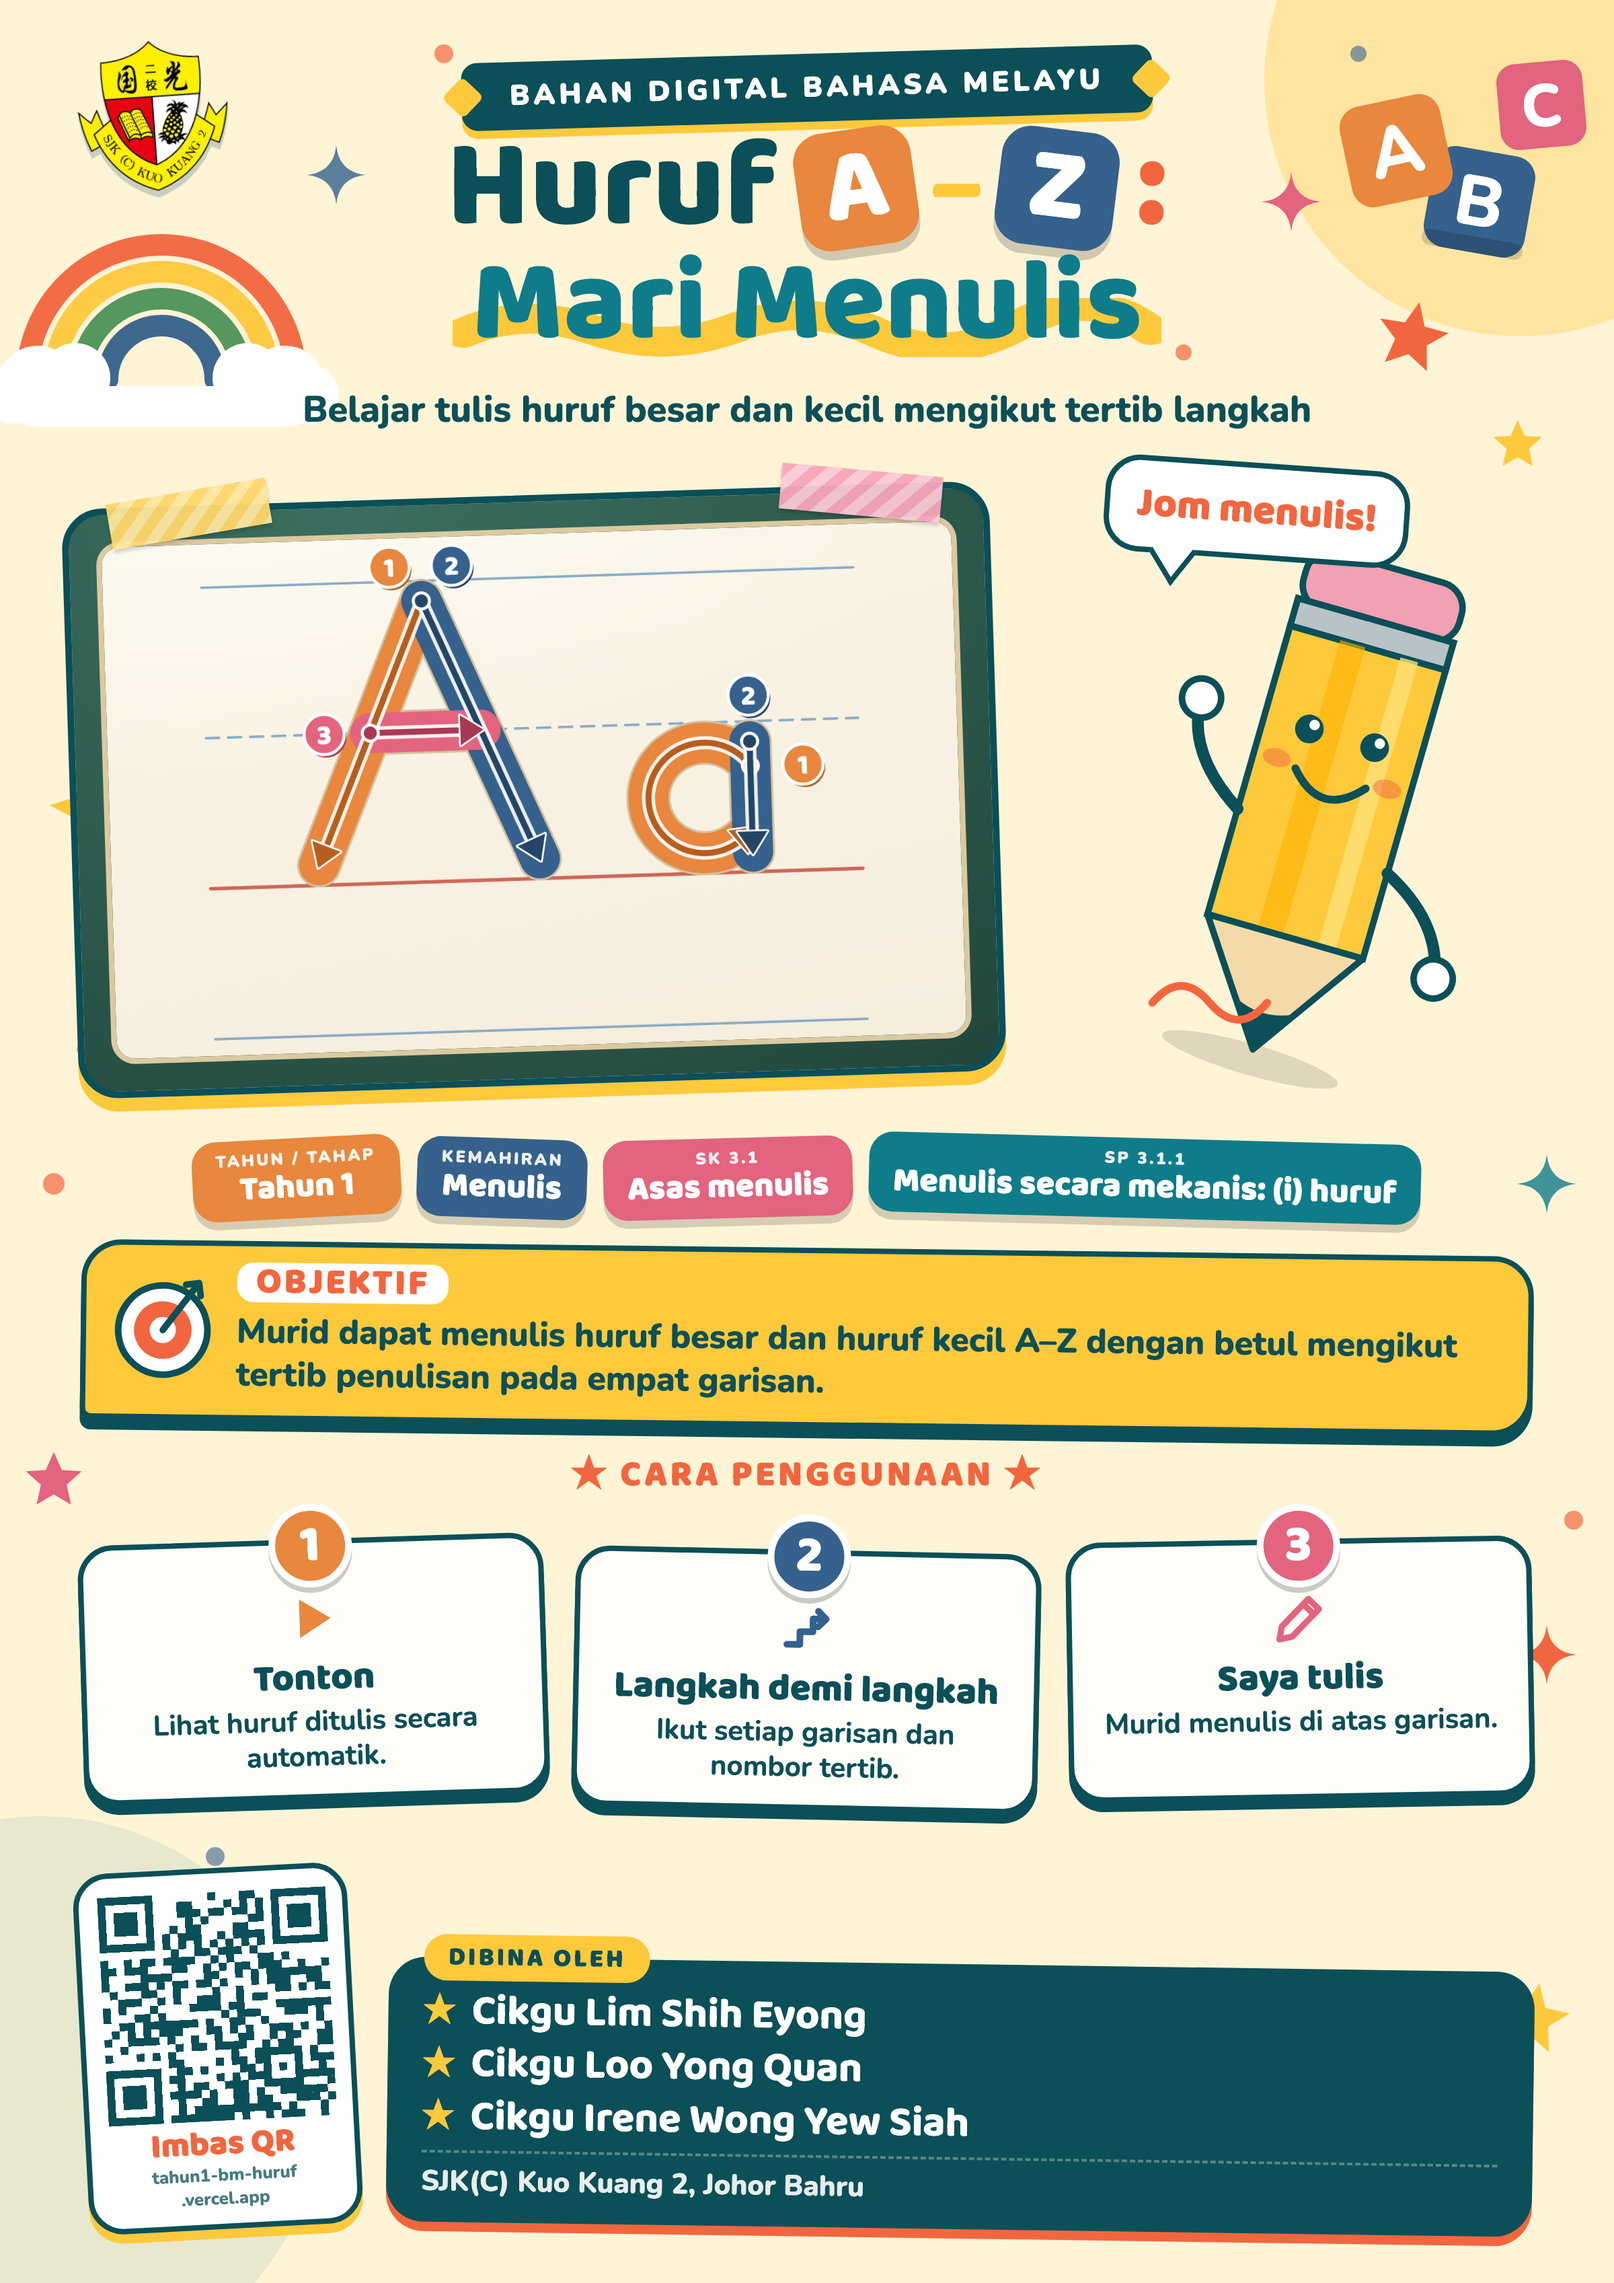
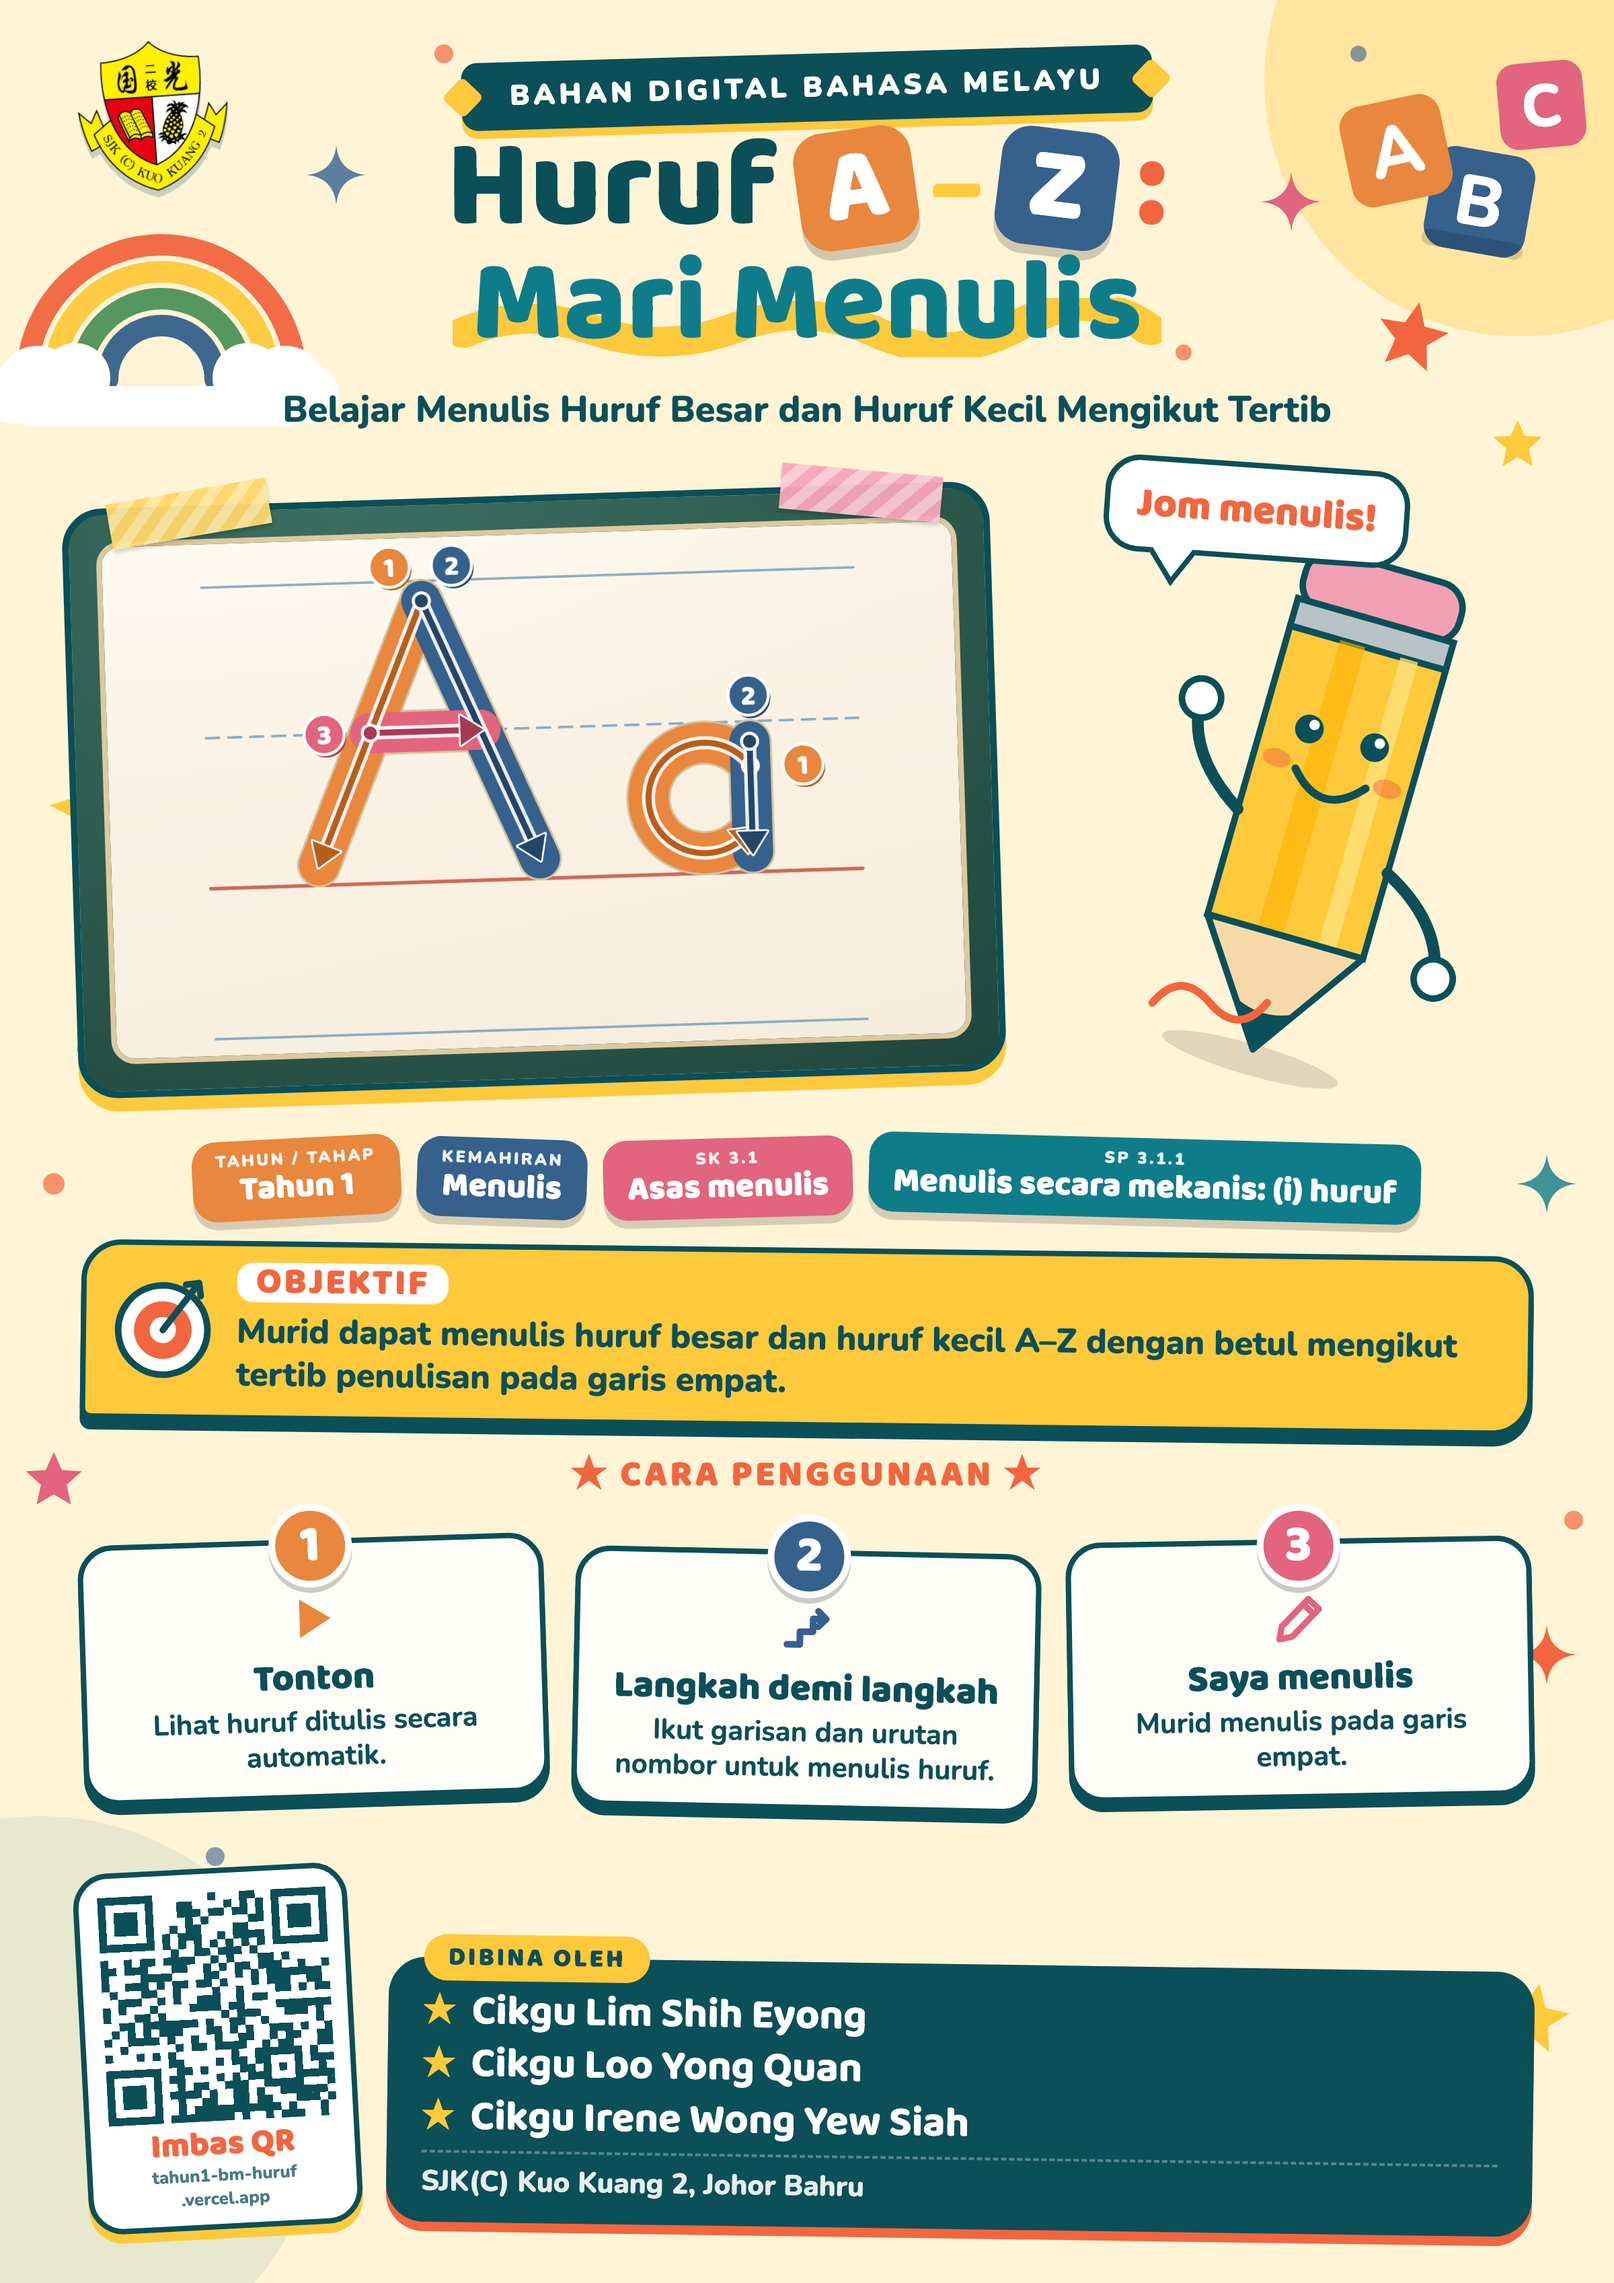
修正海报四处马来文用词
- 副标语改为 Belajar Menulis Huruf Besar dan Huruf Kecil Mengikut Tertib
- 「Langkah demi langkah」说明、第 3 步「Saya menulis」、Objektif 结尾改为「garis empat」，照老师原文
- 重生 poster-v2.png；更新 handoff

diff --git a/docs/poster-v2/poster.tpl.html b/docs/poster-v2/poster.tpl.html
@@ -110,7 +110,7 @@ h1,h2,.fun{font-family:'Baloo 2','Nunito',sans-serif}
       <div class="t2">Mari Menulis
         <svg viewBox="0 0 400 44" preserveAspectRatio="none"><path d="M6 26Q40 6 80 24T160 22T240 26T320 20T394 24" fill="none" stroke="#FFC93C" stroke-width="22" stroke-linecap="round"/></svg></div>
     </div>
-    <div class="sub">Belajar tulis huruf besar dan kecil mengikut tertib langkah</div>
+    <div class="sub">Belajar Menulis Huruf Besar dan Huruf Kecil Mengikut Tertib</div>
   </div>
 
   <div class="heroRow">
@@ -150,7 +150,7 @@ h1,h2,.fun{font-family:'Baloo 2','Nunito',sans-serif}
   <div class="obj">
     <svg class="ic" viewBox="0 0 80 80"><circle cx="40" cy="40" r="34" fill="#fff" stroke="#0B4F58" stroke-width="5"/><circle cx="40" cy="40" r="22" fill="#F2663F"/><circle cx="40" cy="40" r="10" fill="#fff"/><path d="M40 40L70 10" stroke="#0B4F58" stroke-width="5" stroke-linecap="round"/><path d="M62 8l10 0 0 10" fill="none" stroke="#0B4F58" stroke-width="5" stroke-linecap="round" stroke-linejoin="round"/></svg>
     <h3>Objektif</h3>
-    <p>Murid dapat menulis huruf besar dan huruf kecil A–Z dengan betul mengikut tertib penulisan pada empat garisan.</p>
+    <p>Murid dapat menulis huruf besar dan huruf kecil A–Z dengan betul mengikut tertib penulisan pada garis empat.</p>
   </div>
 
   <div>
@@ -161,10 +161,10 @@ h1,h2,.fun{font-family:'Baloo 2','Nunito',sans-serif}
         <h4>Tonton</h4><p>Lihat huruf ditulis secara automatik.</p></div>
       <div class="step"><div class="num" style="background:var(--b)">2</div>
         <svg class="i" viewBox="0 0 24 24" fill="none" stroke="#35618C" stroke-width="2.6" stroke-linecap="round" stroke-linejoin="round"><path d="M4 18h5v-5h5V8h5"/><path d="M16 5l3 3-3 3"/></svg>
-        <h4>Langkah demi langkah</h4><p>Ikut setiap garisan dan nombor tertib.</p></div>
+        <h4>Langkah demi langkah</h4><p>Ikut garisan dan urutan nombor untuk menulis huruf.</p></div>
       <div class="step"><div class="num" style="background:var(--p)">3</div>
         <svg class="i" viewBox="0 0 24 24" fill="none" stroke="#E2647E" stroke-width="2.4" stroke-linecap="round" stroke-linejoin="round"><path d="M15.5 4.5l4 4L9 19l-5 1 1-5z"/><path d="M13.5 6.5l4 4"/></svg>
-        <h4>Saya tulis</h4><p>Murid menulis di atas garisan.</p></div>
+        <h4>Saya menulis</h4><p>Murid menulis pada garis empat.</p></div>
     </div>
   </div>
 

diff --git a/handoff.md b/handoff.md
@@ -3,6 +3,7 @@
 > 专案背景与关键决定见 `agents.md`，这里只放「现在停在哪」。
 
 ## ⏯ 目前做到哪
+- 2026-10-05 上午：海报文字按老师给的原文改 4 处（副标语／Langkah demi langkah 说明／第 3 步改「Saya menulis」+「pada garis empat」／Objektif 结尾），已重生 `poster-v2.png`，同步覆盖 `docs/poster-huruf-az-v2.png`。第 3 步说明「empat.」掉到第二行单独一词，已问老师要不要调，未回覆。
 - 2026-10-05：小写 f、t 笔画调整（f 横线、t 竖线起笔，commit `3d0c44f`），已推并 `vercel deploy --prod` 上线，线上 `letters.js` 已验到新写法。Hub 未同步（只改字形）。
 - 同日做了 DSKP 数码教材海报 v2（`docs/poster-v2/poster-v2.png`，源码可重生），老师还没说定稿，未对外发。
 - 前情：v1.3 已上线（2026-10-01），Hub 已同步 v1.3。
@@ -12,7 +13,7 @@
 - 过程：v1.0 首次上架 → v1.1/v1.2 国文老师两轮核对笔顺 → v1.3 k、R、e 字形微调（同日）。
 
 ## ➡ 下一步
-0. 海报：等老师看过定稿；要改版面改 `docs/poster-v2/poster.tpl.html` 后跑 `build.py`。
+0. 海报：等老师回覆「empat.」断行要不要调、并看过定稿；要改版面改 `docs/poster-v2/poster.tpl.html` 后跑 `build.py`。
 1. 学校 Windows 电脑（Chrome）与课室一体机触控实测。
 2. 问老师：大写 P 的半圆（停在 y=270）要不要跟 R 一样收在第 2 条线。
 3. `tools/`、`fonts/`（Azim 版遗留）老师确认不要后可搬 `~/Documents/待删除/`。
@@ -22,5 +23,5 @@
 - 马来文笔画说明用词（cangkuk 等）国文老师没逐条回覆，暂维持。
 
 ## 🕐 最后更新
-2026-10-05 · Claude Code @ yquanloo Mac · Git：✅ 已推（8d49f41）
-- 注意：`docs/poster-huruf-az.png` 是别处放进来的未跟踪档案，不是这次生成的，没动它。
+2026-10-05 · Claude Code @ yquanloo Mac · Git：待推
+- `docs/poster-huruf-az-v2.png`（老师发来的那张，已被新版覆盖）未跟踪，没提交；`poster.html` 是 build 中间产物，没提交。
